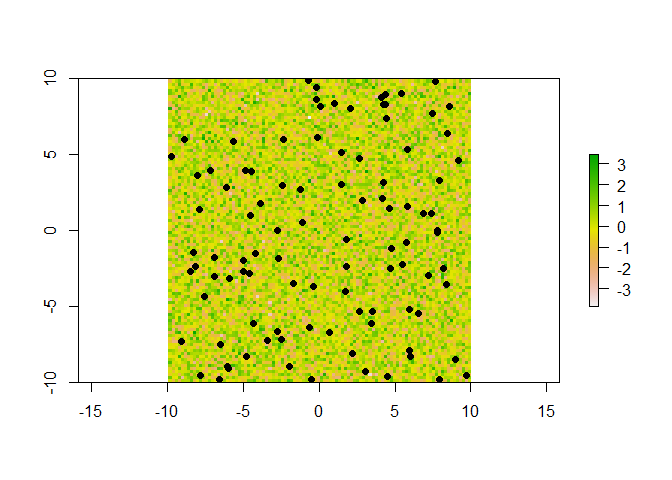
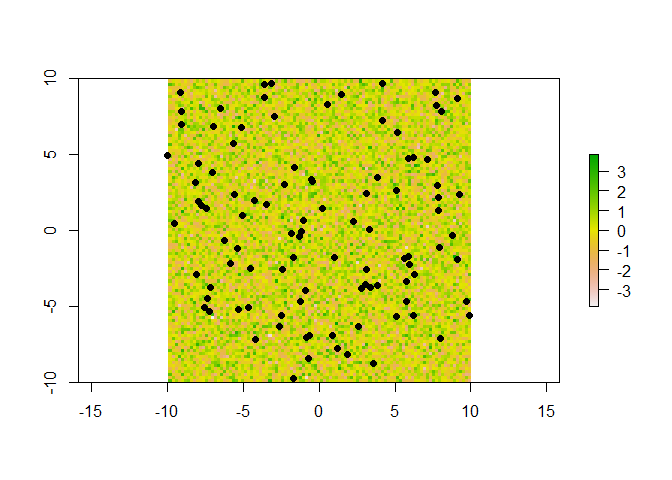
Update readme

Changed region(s): [[0.25, 0.1562, 0.7188, 0.8125], [0.9062, 0.3438, 0.9375, 0.625]]

diff --git a/README.md b/README.md
@@ -1,15 +1,15 @@
 qrbp is an r package for generating quasi random background points for Poisson point process models.
 ----------------------------------------------------------------------------------------------------
 
-The package aims to generate quasi-random background point for use in Poisson point process models. Quasi-random points are an alternative to grid-based or random background point designs. Quasi-random (sampling) background points are an advanced form of spatially-balanced survey design or point stratification, that aims to reduce the frequency of placing samples close to each other (relative to simple randomisations or grid designs). A quasi-random bacground point design improves efficiency of background point sampling (and subsequent modelling) by reducing the amount of spatial autocorrelation between data implying that each sample is providing as much unique information as possible (Grafston & Tille, 2013) and thus reducing low errors for geostatistical prediction (Diggle & Ribeiro, 2007).
+The package aims to generate quasi-random background point for use in Poisson point process models. Quasi-random points are an alternative to grid-based or random background point designs. Quasi-random (sampling) background points are an advanced form of spatially-balanced survey design or point stratification, that aims to reduce the frequency of placing samples close to each other (relative to simple randomisations or grid designs). A quasi-random background point design improves efficiency of background point sampling (and subsequent modelling) by reducing the amount of spatial auto-correlation between data implying that each sample is providing as much unique information as possible (Grafston & Tille, 2013) and thus reducing low errors for geostatistical prediction (Diggle & Ribeiro, 2007).
 
 ``` r
 devtools::install_github('skiptoniam/qrbp')
 ```
 
-There are two main functions in the `qrbp` package, the first and main function can be used to generate `n` quasirandom background points within a spatial domain. The for background points can be used in Poisson point process modelling in R. The main function is , which takes some coordinates, an area of interest and covariates (and other parameters) and produces a dataset. It is essentially a wrapper around the (excellent and existing) function in the MBHdesign package which alreay implements quasi-random sampling within a basic domain.
+There are two main functions in the `qrbp` package, the first and main function can be used to generate `n` quasi-random background points within a spatial domain. The for background points can be used in Poisson point process modelling in R. The main function is , which takes some coordinates, an area of interest and covariates (and other parameters) and produces a dataset. It is essentially a wrapper around the (excellent and existing) function in the MBHdesign package which already implements quasi-random sampling within a basic domain.
 
-Here is an example using a set of spatial points and a raster. In this example we use the location of the existing sample sites to help generate a new set of back ground points based on an underlying probabiltiy of sampling intenstiy. The probablity of estimating the probabilty of presence from a series of spatial points. The probability of *absence in an area of size A* according to the poisson distribution is:
+Here is an example using a set of spatial points and a raster. In this example we use the location of the existing sample sites to help generate a new set of back ground points based on an underlying probability of sampling intensity. The probability of estimating the probability of presence from a series of spatial points. The probability of *absence in an area of size A* according to the Poisson distribution is:
 
 *p**r*(*y* = 0)=*e**x**p*(−*λ*(*u*)\**A*)
 
@@ -28,6 +28,7 @@ library(raster)
     ## Loading required package: sp
 
 ``` r
+set.seed(123)
 N <- 100
 ks <- as.data.frame(cbind(x1=runif(N, min=-10, max=10),x2=runif(N, min=-10, max=10)))
 sa <- raster(nrows=100, ncols=100, xmn=-10, xmx=10,ymn=-10,ymx=10)
@@ -39,7 +40,7 @@ points(ks$x1,ks$x2,pch=16)
 
 ![](readme_files/figure-markdown_github/unnamed-chunk-1-1.png)
 
-How many qausiRandom background points do we need? Let start with 200. The function will plot the underlying probability of sampling intensity, the presence points (white) amd the generated quasi-random background points.
+How many quasi-random background points do we need? Let start with 200. The function will plot the underlying probability of sampling intensity, the presence points (white) and the generated quasi-random background points.
 
 ``` r
 library(qrbp)
@@ -60,3 +61,9 @@ points(ks$x1,ks$x2,pch=16,col='white')
 ```
 
 ![](readme_files/figure-markdown_github/unnamed-chunk-2-1.png)
+
+### References
+
+Grafström, Anton, and Yves Tillé. "Doubly balanced spatial sampling with spreading and restitution of auxiliary totals." Environmetrics 24.2 (2013): 120-131.
+
+Diggle, P. J., P. J. Ribeiro, Model-based Geostatistics. Springer Series in Statistics. Springer, 2007.
